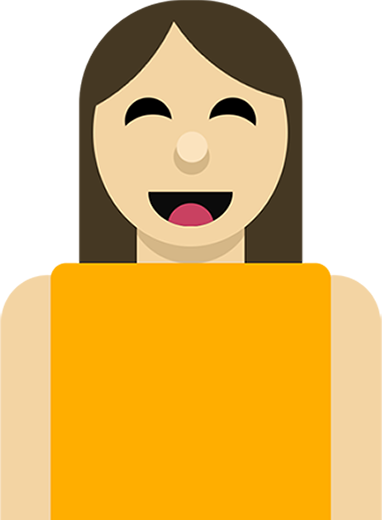
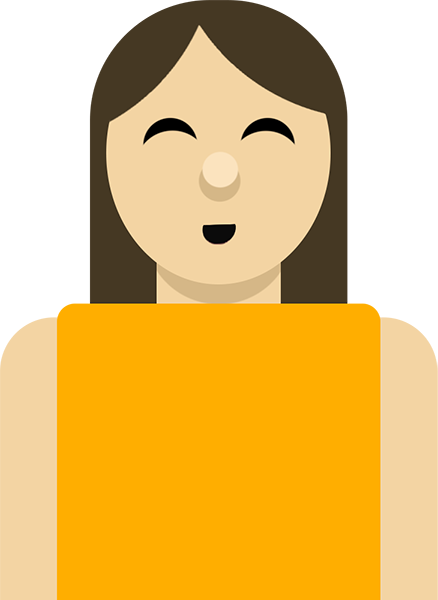
p2: added sewing clickable objects to interactive page

diff --git a/Projects/Project 2/project 2/index.html b/Projects/Project 2/project 2/index.html
@@ -49,5 +49,45 @@
           this.src = "assets/images/bead bowl.png";
         });
     </script>
+
+    <div id="button_2">
+      <a
+        target="_blank"
+        href="https://www.artsci.utoronto.ca/news/sherry-farrell-racette-connects-community-through-beading"
+        ><img id="btn_img_2" src="assets/images/scissors.png"
+      /></a>
+    </div>
+    <script>
+      document
+        .getElementById("btn_img_2")
+        .addEventListener("mouseover", function () {
+          this.src = "assets/images/scissorsLIGHT.png";
+        });
+      document
+        .getElementById("btn_img_2")
+        .addEventListener("mouseout", function () {
+          this.src = "assets/images/scissors.png";
+        });
+    </script>
+
+    <div id="button_3">
+      <a
+        target="_blank"
+        href="https://150ans150oeuvres.uqam.ca/en/artwork/1876-indian-act-by-nadia-myre/#description"
+        ><img id="btn_img_3" src="assets/images/thread.png"
+      /></a>
+    </div>
+    <script>
+      document
+        .getElementById("btn_img_3")
+        .addEventListener("mouseover", function () {
+          this.src = "assets/images/threadLIGHT";
+        });
+      document
+        .getElementById("btn_img_3")
+        .addEventListener("mouseout", function () {
+          this.src = "assets/images/thread.png";
+        });
+    </script>
   </body>
 </html>

diff --git a/Projects/Project 2/project 2/js/script.js b/Projects/Project 2/project 2/js/script.js
@@ -1295,13 +1295,13 @@ function sceneSwitcher() {
 
 function speakerCharacter() {
   //loading character animation when NOT speaking
-  introCharacter = createSprite(1000, 600, 100, 100);
+  introCharacter = createSprite(600, 600, 100, 100);
   introCharacter.addAnimation("notSpeaking", "assets/images/girlStandard.png");
   //loading chracter animation when speaking
   introCharacter.addAnimation(
     "speaking",
     "assets/images/girl01.png",
-    "assets/images/girl15.png"
+    "assets/images/girl03.png"
   );
 }
 
@@ -1314,6 +1314,8 @@ function mousePressed() {
       state = "interactiveScreen";
       //display buttons
       document.getElementById("button_1").style.display = "block";
+      document.getElementById("button_2").style.display = "block";
+      document.getElementById("button_3").style.display = "block";
     }
     //mouse is pressed is ALSO used to grab bead objects in interactive page
   } else if (state === "interactiveScreen") {

diff --git a/Projects/Project 2/project 2/css/style.css b/Projects/Project 2/project 2/css/style.css
@@ -21,10 +21,10 @@ body {
 }
 
 #button_1 {
-  width: 80px;
+  width: 200px;
   position: absolute;
   z-index: 5;
-  top: 5vw;
+  top: 20vw;
   left: 5vw;
   display: none;
 }
@@ -34,14 +34,27 @@ body {
 }
 
 #button_2 {
-  width: 80px;
+  width: 150px;
   position: absolute;
   z-index: 5;
-  tops: 15vw;
-  left: 15vw;
+  top: 5vw;
+  left: 1200px;
   display: none;
 }
 
 #button_2 img {
+  width: 100%;
+}
+
+#button_3 {
+  width: 110px;
+  position: absolute;
+  z-index: 5;
+  top: 40vw;
+  left: 10vw;
+  display: none;
+}
+
+#button_3 img {
   width: 100%;
 }
